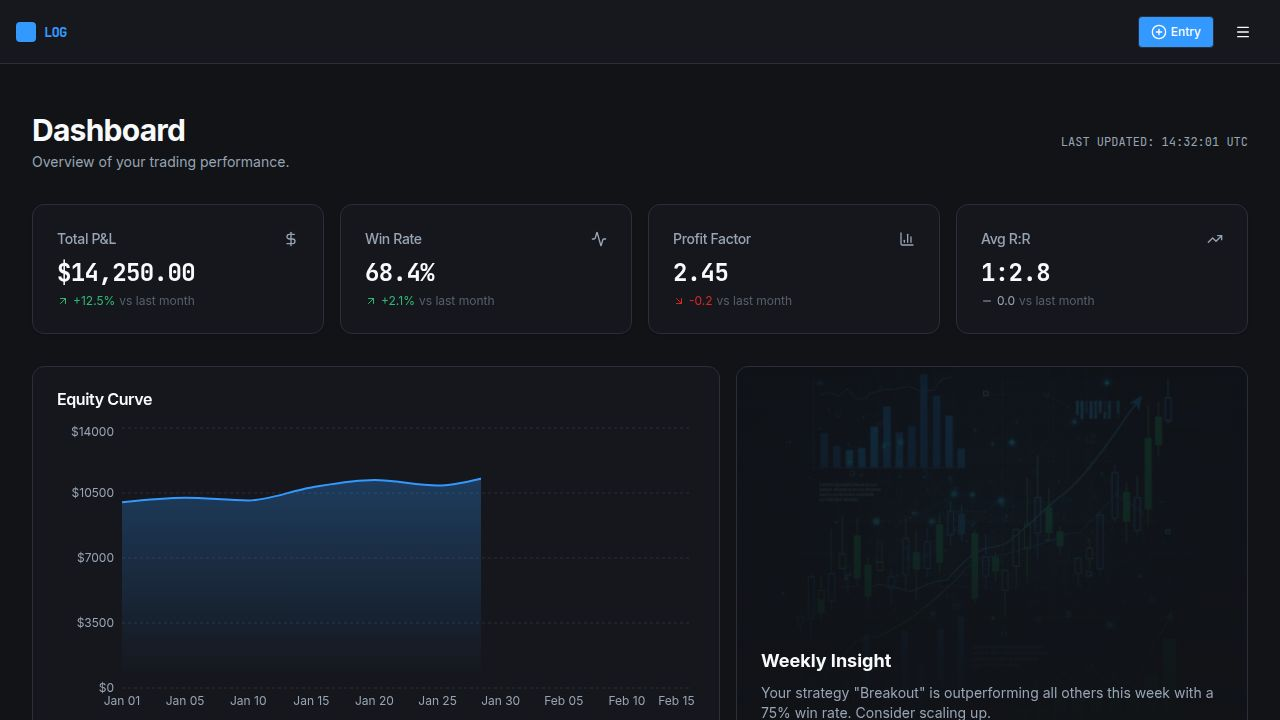
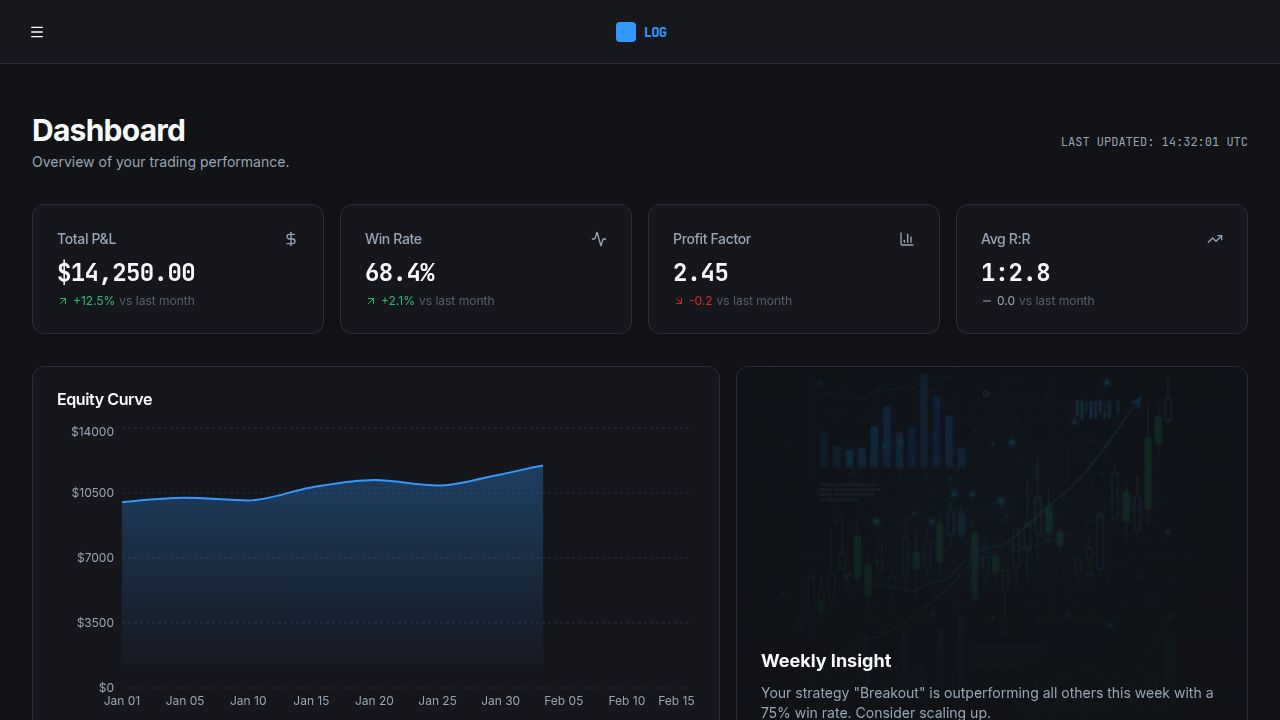
Move navigation entry button to journal section and relocate hamburger
Relocate hamburger menu to the left and remove the top-right entry button, adding it to the Journal page header instead.

Replit-Commit-Author: Agent
Replit-Commit-Session-Id: 56263155-224d-4f6c-93f0-67482e3a9e87
Replit-Commit-Checkpoint-Type: full_checkpoint
Replit-Commit-Event-Id: fb4a34c0-7a87-4380-9ebe-0b9c11aa5c21
Replit-Commit-Screenshot-Url: https://storage.googleapis.com/screenshot-production-us-central1/7cf087d2-2781-46e5-8dc5-c6856b2a7eba/56263155-224d-4f6c-93f0-67482e3a9e87/3dIC9U5
Replit-Helium-Checkpoint-Created: true

diff --git a/client/src/components/layout/MobileNav.tsx b/client/src/components/layout/MobileNav.tsx
@@ -19,25 +19,12 @@ export function MobileNav() {
 
   return (
     <div className="fixed top-0 left-0 right-0 z-50 bg-sidebar border-b h-16 flex items-center justify-between px-4">
-      <div className="flex items-center gap-2 font-mono text-lg font-bold tracking-tighter text-primary">
-        <div className="h-5 w-5 rounded bg-primary" />
-        <span className="text-sm">LOG</span>
-      </div>
-
-      <div className="flex items-center gap-2">
-        <Link href="/new-entry">
-          <Button size="sm" className="gap-1">
-            <PlusCircle className="h-4 w-4" />
-            <span className="hidden sm:inline">Entry</span>
+      <Sheet open={open} onOpenChange={setOpen}>
+        <SheetTrigger asChild>
+          <Button variant="ghost" size="sm">
+            <Menu className="h-5 w-5" />
           </Button>
-        </Link>
-
-        <Sheet open={open} onOpenChange={setOpen}>
-          <SheetTrigger asChild>
-            <Button variant="ghost" size="sm">
-              <Menu className="h-5 w-5" />
-            </Button>
-          </SheetTrigger>
+        </SheetTrigger>
           <SheetContent side="left" className="w-64 p-0">
             <div className="flex flex-col h-full">
               <div className="border-b px-6 py-4 flex items-center gap-2">
@@ -79,7 +66,13 @@ export function MobileNav() {
             </div>
           </SheetContent>
         </Sheet>
+
+      <div className="flex items-center gap-2 font-mono text-lg font-bold tracking-tighter text-primary">
+        <div className="h-5 w-5 rounded bg-primary" />
+        <span className="text-sm">LOG</span>
       </div>
+
+      <div className="w-10" />
     </div>
   );
 }

diff --git a/client/src/pages/Journal.tsx b/client/src/pages/Journal.tsx
@@ -1,11 +1,11 @@
-import { Sidebar } from "@/components/layout/Sidebar";
 import { MobileNav } from "@/components/layout/MobileNav";
 import { TradeTable } from "@/components/journal/TradeTable";
 import { mockTrades } from "@/lib/mockData";
 import { Input } from "@/components/ui/input";
 import { Button } from "@/components/ui/button";
 import { Select, SelectContent, SelectItem, SelectTrigger, SelectValue } from "@/components/ui/select";
-import { Search, Filter } from "lucide-react";
+import { Search, Filter, PlusCircle } from "lucide-react";
+import { Link } from "wouter";
 
 export default function Journal() {
   return (
@@ -13,11 +13,17 @@ export default function Journal() {
       <MobileNav />
       <main className="flex-1 overflow-y-auto pt-20">
         <div className="container mx-auto px-4 py-6 md:p-8 max-w-7xl">
-          <header className="mb-6 md:mb-8 flex flex-col gap-2">
+          <header className="mb-6 md:mb-8 flex flex-col md:flex-row items-start md:items-center justify-between gap-4">
             <div>
               <h1 className="text-2xl md:text-3xl font-bold tracking-tight">Journal</h1>
               <p className="text-xs md:text-sm text-muted-foreground mt-1">Detailed history of all your backtested trades.</p>
             </div>
+            <Link href="/new-entry">
+              <Button className="gap-2 w-full md:w-auto">
+                <PlusCircle className="h-4 w-4" />
+                New Entry
+              </Button>
+            </Link>
           </header>
 
           <div className="mb-6 flex flex-col md:flex-row items-stretch md:items-center gap-3">
